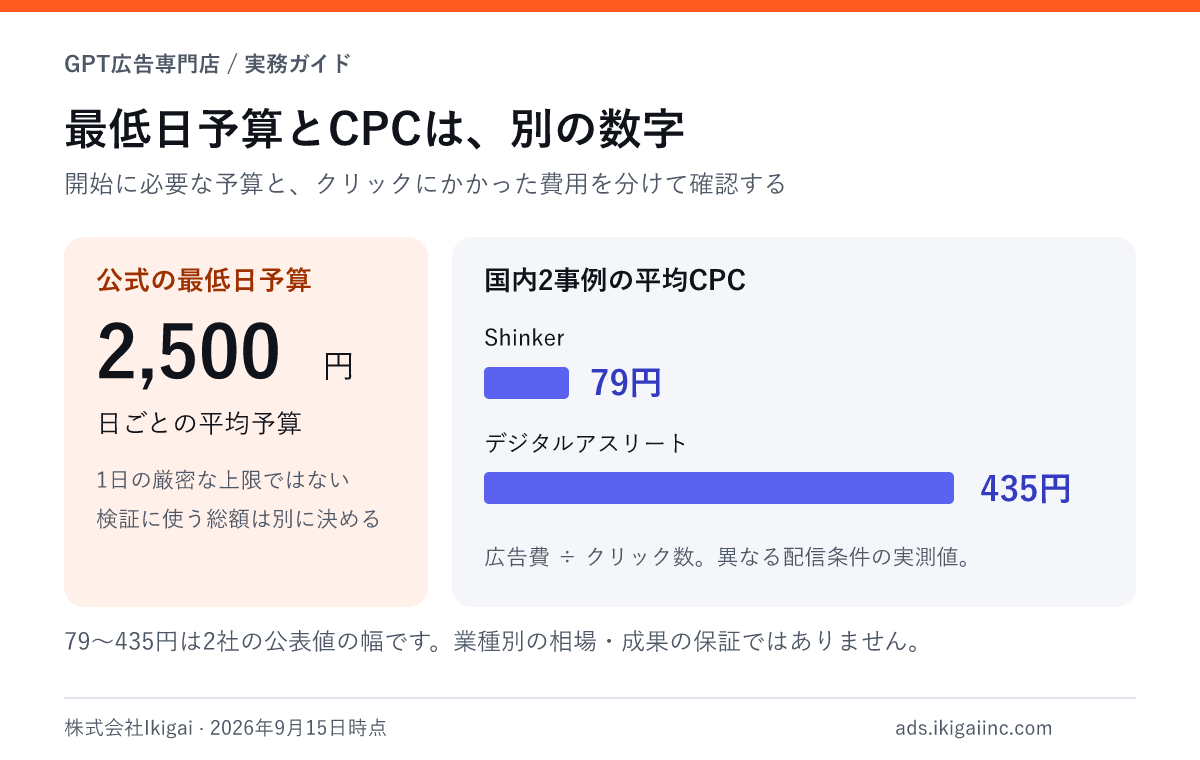
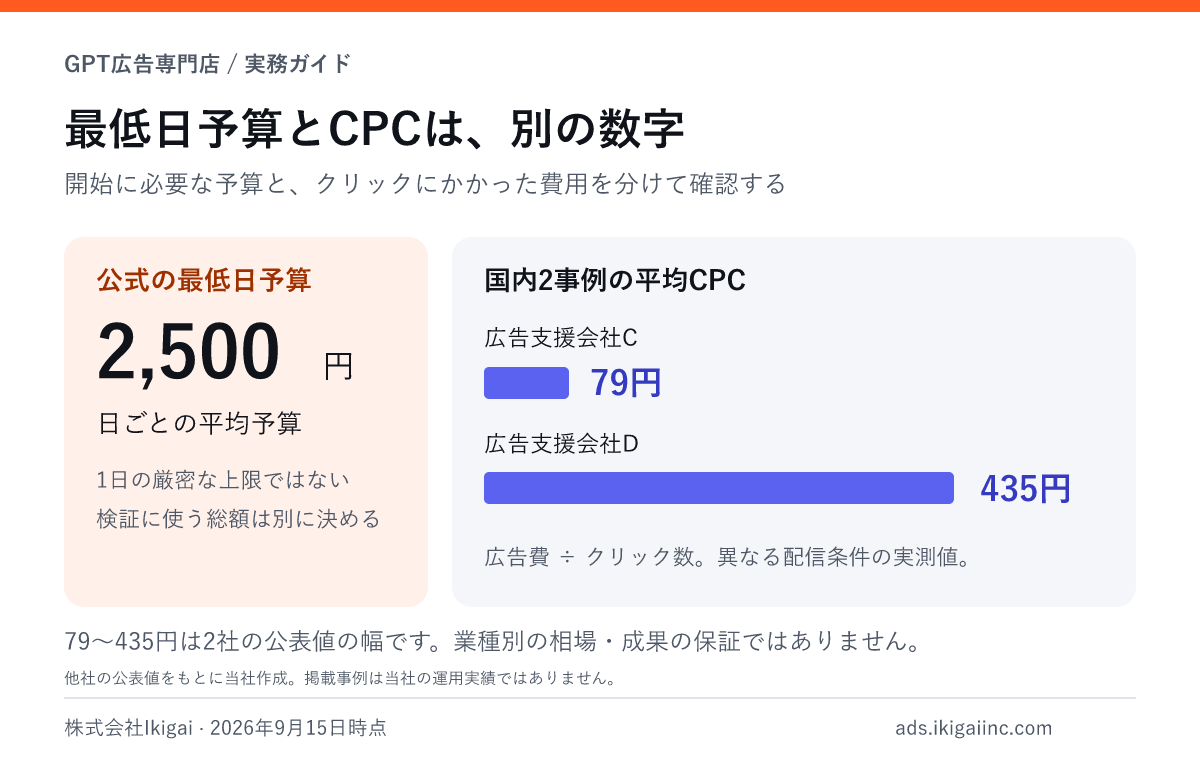
記事の説明図を匿名化し、実績・見解の注記を追加

Changed region(s): [[0.0617, 0.8776, 0.4933, 0.9079], [0.4008, 0.575, 0.555, 0.6053], [0.4008, 0.4237, 0.5242, 0.4539]]

diff --git a/articles/assets/style.css b/articles/assets/style.css
@@ -1,1 +1,3 @@
 :root{--ink:#10131A;--sub:#4E5766;--orange:#E24000;--accent:#FF5A1F;--purple:#343BC0;--line:#E1E4EB;--soft:#F5F6F9}*{box-sizing:border-box}html{scroll-behavior:smooth;scroll-padding-top:104px}body{margin:0;color:var(--ink);font-family:Inter,"Noto Sans JP","Yu Gothic",sans-serif;line-height:1.9;background:#fff}a{color:inherit;text-decoration-thickness:1px;text-underline-offset:4px}a:hover{color:var(--orange)}a:focus-visible,summary:focus-visible,[tabindex]:focus-visible{outline:3px solid var(--purple);outline-offset:5px}img{max-width:100%;height:auto;display:block}.wrap{width:min(1180px,100% - 64px);margin-inline:auto}.site-header{position:sticky;top:0;z-index:10;background:rgba(255,255,255,.97);border-bottom:1px solid var(--line)}.header-inner{display:flex;align-items:center;justify-content:space-between;gap:20px;min-height:84px}.brand{font-size:23px;font-weight:900;text-decoration:none;letter-spacing:-.04em;white-space:nowrap}.brand>span{color:var(--accent)}.brand small{display:block;font-size:10px;letter-spacing:.08em;color:var(--sub);font-weight:500;line-height:1.1}.site-header nav{display:flex;gap:28px;align-items:center;font-size:14px;font-weight:700}.site-header nav>a{text-decoration:none}.button{background:var(--accent);color:#10131A!important;display:inline-flex;justify-content:center;align-items:center;gap:25px;border-radius:8px;padding:15px 24px;font-size:15px;font-weight:800;text-decoration:none;line-height:1.7}.button:hover{background:#ff793f}.button.small{padding:11px 19px;font-size:13px}.skip{position:fixed;left:12px;top:-70px;padding:10px;background:white;z-index:100}.skip:focus{top:10px}.breadcrumbs{display:flex;flex-wrap:wrap;gap:13px;margin:28px 0 48px;font-size:12px;color:var(--sub)}.breadcrumbs a{text-decoration:none}.eyebrow{font-size:12px;font-weight:800;letter-spacing:.14em;color:var(--orange);margin:0 0 18px}.eyebrow span{letter-spacing:.04em;display:inline-block;margin-left:25px;color:var(--sub)}.article-heading{max-width:1030px;padding-bottom:44px;border-bottom:1px solid var(--line)}.edition{display:inline-block;font-size:12px;font-weight:700;letter-spacing:.05em;color:var(--purple);background:#EEEFFE;padding:4px 12px;margin:0 0 17px;border-radius:5px}h1{font-size:clamp(30px,3.5vw,43px);line-height:1.55;letter-spacing:-.025em;margin:0 0 25px;overflow-wrap:anywhere}.byline{display:flex;gap:9px 25px;flex-wrap:wrap;color:var(--sub);font-size:12px;line-height:1.7;margin-bottom:26px}.lead{font-size:18px;line-height:2;max-width:860px;margin:0}.reading-layout{display:grid;grid-template-columns:minmax(0,800px) 280px;gap:72px;margin:52px 0 74px;align-items:start}.prose{grid-column:1;grid-row:1;font-size:16px;line-height:2.05;min-width:0;overflow-wrap:anywhere}.prose>p{margin:0 0 23px}.prose h2{font-size:26px;line-height:1.65;padding:0 0 18px;border-bottom:2px solid var(--ink);margin:62px 0 26px;letter-spacing:-.02em}.prose>h2:first-child{margin-top:0}.prose h3{font-size:21px;line-height:1.7;margin:38px 0 18px;border-left:4px solid var(--accent);padding-left:15px}.prose h2 strong,.prose h3 strong{font-weight:700}.prose ul{padding:22px 28px 22px 48px;background:var(--soft);border-radius:8px;margin:23px 0}.prose li{padding:3px 0 3px 3px}.prose li::marker{color:var(--orange)}.prose a{color:var(--purple);font-size:inherit}.prose a:hover{color:var(--orange)}.prose a[href="https://ads.ikigaiinc.com/#cta"]{display:inline-flex;padding:12px 20px;background:#FFF1EA;border:1px solid #FFD2BD;color:#A23200;font-weight:700;border-radius:8px;text-decoration:none}.table-scroll{max-width:100%;overflow-x:auto;margin:28px 0;border:1px solid var(--line);border-radius:9px}.prose table{border-collapse:collapse;min-width:620px;width:100%;font-size:14px;line-height:1.85}.prose th{text-align:left;background:var(--ink);color:white;font-weight:700}.prose th,.prose td{padding:15px 17px;vertical-align:top;border-bottom:1px solid var(--line);border-right:1px solid var(--line)}.prose tr:last-child td{border-bottom:0}.prose th:last-child,.prose td:last-child{border-right:0}.prose tr:nth-child(odd) td{background:#F9FAFC}.prose table p{margin:0}.prose figure{margin:40px 0 34px}.prose figure img{border:1px solid var(--line);border-radius:8px}.prose figcaption{font-size:12px;line-height:1.8;color:var(--sub);margin-top:10px}.toc{grid-column:2;grid-row:1;position:sticky;top:115px;font-size:12px;line-height:1.8;border-top:3px solid var(--ink);padding-top:18px}.toc summary{font-size:14px;font-weight:700;cursor:pointer}.toc ol{list-style:none;padding:0;margin:18px 0;counter-reset:section}.toc li{counter-increment:section;margin:0;padding:11px 0;border-bottom:1px solid var(--line)}.toc li a{display:flex;gap:10px;text-decoration:none;color:var(--sub)}.toc li a:before{content:counter(section,decimal-leading-zero);color:var(--orange);font-weight:700}.toc li a:hover{color:var(--orange)}.toc-back{font-weight:700;display:inline-block;margin-top:12px}.editor-note{border-top:1px solid var(--line);margin-top:38px;padding-top:24px;font-size:12px;line-height:1.9;color:var(--sub)}.editor-note p{margin-bottom:0}.consult{background:var(--ink);color:white;display:grid;grid-template-columns:1fr 1.6fr;gap:45px;border-radius:16px;padding:48px;margin:70px 0}.consult .eyebrow{color:#FF976D}.consult h2{font-size:30px;line-height:1.7;margin:0}.consult p{font-size:14px;color:#C4CBD5;margin:0 0 20px;line-height:2}.consult .small-text{font-size:11px;margin:12px 0 0}.related{padding:0 0 90px}.section-top{margin-bottom:30px}.section-top h2{font-size:30px;line-height:1.6;margin:0 0 15px}.section-top>p:last-child{font-size:15px;color:var(--sub)}.cards{display:grid;grid-template-columns:repeat(3,minmax(0,1fr));gap:26px}.cards.two{grid-template-columns:repeat(2,minmax(0,1fr));max-width:900px}.article-card{border:1px solid var(--line);border-radius:12px;text-decoration:none;overflow:hidden;display:flex;flex-direction:column;transition:border-color .15s,transform .15s}.article-card:hover{border-color:var(--accent);color:var(--ink);transform:translateY(-3px)}.card-visual{background:var(--soft);padding:20px 15px;border-bottom:1px solid var(--line)}.card-visual img{border:1px solid var(--line);border-radius:4px}.card-content{padding:25px;display:flex;flex-direction:column;flex:1}.card-label{font-size:11px;font-weight:700;letter-spacing:.04em;color:var(--orange)}.article-card h3{font-size:21px;line-height:1.7;margin:15px 0}.article-card p{font-size:13px;color:var(--sub);line-height:1.9;margin:0 0 25px}.card-bottom{font-size:11px;display:flex;justify-content:space-between;gap:8px;color:var(--sub);margin-top:auto;border-top:1px solid var(--line);padding-top:19px}.card-bottom span{font-weight:700;color:var(--orange)}.index-hero{background:var(--ink);color:white;padding:70px 0 55px;position:relative;overflow:hidden}.index-hero .eyebrow{color:#FF976D}.index-hero h1{font-size:clamp(38px,5.5vw,64px);line-height:1.5;letter-spacing:-.04em;margin:22px 0}.index-hero h1 span{color:#FFA681}.index-hero>.wrap{position:relative;z-index:1}.index-hero p:not(.eyebrow){font-size:17px;line-height:2.1;color:#C4CBD5}.index-hero:after{content:"";position:absolute;border:1px solid #343A4A;width:560px;height:560px;border-radius:50%;right:-120px;top:10px;box-shadow:0 0 0 55px #171C27,0 0 0 56px #343A4A,0 0 0 110px #151922,0 0 0 111px #343A4A}.index-stats{display:flex;gap:40px;margin-top:32px;font-size:12px;line-height:1.4;color:#AFB7C7}.index-stats b{font-size:27px;color:white;margin-right:9px}.article-index{padding-top:68px;padding-bottom:15px}.site-footer{background:#F5F6F9;padding:55px 0;border-top:1px solid var(--line)}.site-footer p{color:var(--sub);font-size:12px;line-height:1.9;margin:20px 0}.footer-links{display:flex;flex-wrap:wrap;gap:15px 30px;margin:25px 0;font-size:12px}.site-footer small{font-size:10px;color:var(--sub)}@media(max-width:1050px){.reading-layout{grid-template-columns:minmax(0,1fr) 235px;gap:35px}.cards{gap:18px}.card-content{padding:20px}.article-card h3{font-size:18px}.toc{font-size:11px}}@media(max-width:800px){.wrap{width:calc(100% - 40px)}.header-inner{min-height:72px}.brand{font-size:19px}.site-header nav{gap:15px;font-size:12px}.button.small{padding:9px 13px}.breadcrumbs{margin:22px 0 30px;font-size:10px;gap:9px}.eyebrow span{display:block;margin:8px 0 0}.article-heading{padding-bottom:32px}.lead{font-size:16px;line-height:2}.byline{display:block;font-size:11px}.byline>*{display:block;margin:5px 0}.reading-layout{display:flex;flex-direction:column;gap:35px;margin-top:30px}.toc{position:static;width:100%;background:var(--soft);border:0;border-radius:10px;padding:20px;font-size:12px}.toc ol{margin-bottom:0}.toc-back{display:none}.prose{font-size:16px;width:100%}.prose h2{font-size:23px;margin-top:48px}.prose h3{font-size:19px}.prose ul{padding:18px 20px 18px 36px}.prose figure{margin:28px -8px}.prose figcaption{padding-inline:8px;font-size:11px}.consult{grid-template-columns:1fr;gap:20px;padding:29px 25px;margin:45px 0}.consult h2{font-size:28px}.consult .button{font-size:13px;padding:13px 18px;gap:10px}.cards,.cards.two{grid-template-columns:1fr;gap:24px}.article-card h3{font-size:22px}.card-visual{padding:22px 24px}.card-content{padding:25px}.related{padding-bottom:50px}.section-top h2{font-size:26px}.index-hero{padding:46px 0 40px}.index-hero:after{right:-445px;opacity:.5}.index-hero p:not(.eyebrow){font-size:15px}.index-stats{gap:25px}.index-stats b{font-size:23px}.desktop{display:none}.article-index{padding-top:45px}}@media(prefers-reduced-motion:reduce){html{scroll-behavior:auto}.article-card{transition:none}.article-card:hover{transform:none}}@media print{.site-header,.site-footer,.toc,.consult,.related{display:none}.reading-layout{display:block}.wrap{width:100%}.prose{font-size:10pt}.prose h2{break-after:avoid}.prose figure,.prose table{break-inside:avoid}.table-scroll{overflow:visible}.prose table{min-width:0}a{color:inherit!important}.article-heading{page-break-after:avoid}}
+
+.case-note{font-size:12px;line-height:1.9;color:var(--sub);background:var(--soft);border-left:3px solid var(--line);padding:12px 16px;margin:24px 0 0;max-width:860px}
